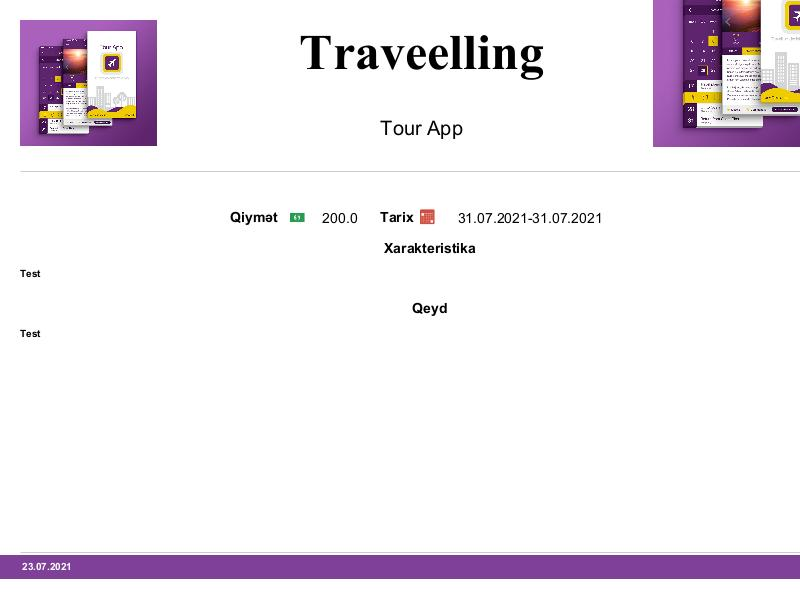
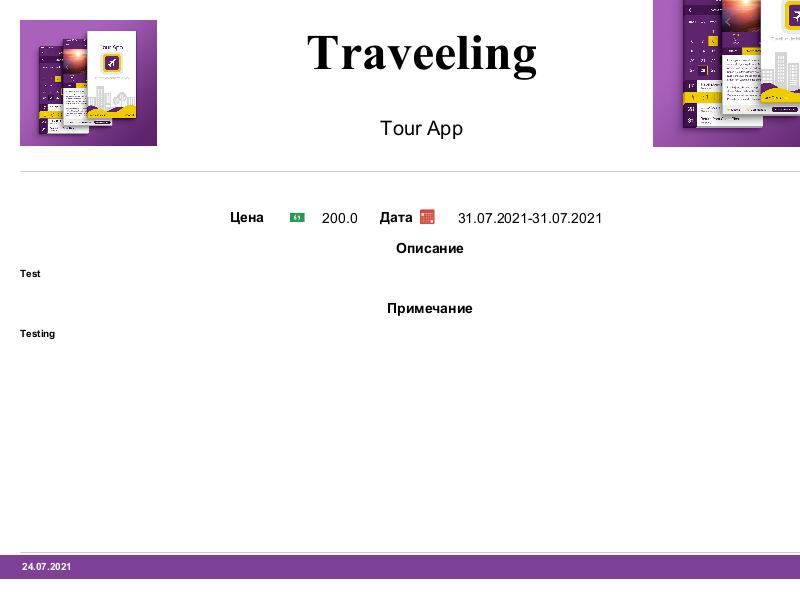
added textToImage method to utils package

diff --git a/TelegramAgent/src/main/java/com/mycode/telegramagent/dao/Impl/OfferImpl.java b/TelegramAgent/src/main/java/com/mycode/telegramagent/dao/Impl/OfferImpl.java
@@ -3,10 +3,8 @@ package com.mycode.telegramagent.dao.Impl;
 import com.mycode.telegramagent.dao.Interface.OfferDAO;
 import com.mycode.telegramagent.dto.JasperDto;
 import com.mycode.telegramagent.dto.OfferDto;
-import com.mycode.telegramagent.dto.RabbitOffer;
 import com.mycode.telegramagent.dto.ReplyToOffer;
 import com.mycode.telegramagent.enums.AgentRequestStatus;
-import com.mycode.telegramagent.enums.Languages;
 import com.mycode.telegramagent.models.Agent;
 import com.mycode.telegramagent.models.Offer;
 import com.mycode.telegramagent.models.UserRequest;
@@ -16,31 +14,17 @@ import com.mycode.telegramagent.repositories.OfferRepo;
 import com.mycode.telegramagent.repositories.OrderRepo;
 import com.mycode.telegramagent.services.Locale.LocaleMessageService;
 import lombok.SneakyThrows;
-import net.sf.jasperreports.engine.*;
-import net.sf.jasperreports.engine.data.JRBeanCollectionDataSource;
 import org.modelmapper.ModelMapper;
-import org.springframework.boot.autoconfigure.security.SecurityProperties;
+import org.springframework.beans.factory.annotation.Value;
 import org.springframework.stereotype.Component;
 import org.springframework.transaction.annotation.Propagation;
 import org.springframework.transaction.annotation.Transactional;
-import org.springframework.util.ResourceUtils;
-import org.springframework.web.multipart.MultipartFile;
-
-import javax.imageio.ImageIO;
-import java.awt.image.BufferedImage;
 import java.io.File;
-import java.io.FileOutputStream;
-import java.io.IOException;
-import java.io.OutputStream;
-import java.text.SimpleDateFormat;
-import java.time.LocalDateTime;
-import java.time.format.DateTimeFormatter;
-import java.util.Collections;
 import java.util.Date;
-import java.util.HashMap;
 import java.util.List;
 
 import static com.mycode.telegramagent.utils.OfferToJasper.offerToJasper;
+import static com.mycode.telegramagent.utils.TextToImage.textToImage;
 
 @Component
 public class OfferImpl implements OfferDAO {
@@ -61,6 +45,12 @@ public class OfferImpl implements OfferDAO {
         this.messageService = messageService;
     }
 
+    @Value("${jasper.path}")
+    String location;
+    @Value("${jasper.file}")
+    String resourceFile;
+
+
     @SneakyThrows
     @Transactional(propagation = Propagation.REQUIRED)
     @Override
@@ -69,20 +59,19 @@ public class OfferImpl implements OfferDAO {
         UserRequest order = userRequest.getOrderByUserId(uuid, email);
         order.setAgentRequestStatus(AgentRequestStatus.Offer_Made);
         JasperDto jasperDto = offerToJasper(agent.getAgencyName(), offerDto);
-        textToImage(jasperDto, order.getLanguage());
-        File photo = new File("src/main/resources/static/docs/offer.jpg");
-
-
-        Offer offer = modelMapper.map(offerDto, Offer.class);
-        modelMapper.getConfiguration().setAmbiguityIgnored(true);
-        offer.setAgent(agent);
-        offer.setUserRequest(order);
-        Offer savedOffer = offerRepo.save(offer);
-        RabbitOffer rabbitOffer = RabbitOffer.builder().userId(uuid).offerId(savedOffer.getId()).file(photo).build();
-        offerService.send(rabbitOffer);
-        order.setOffer(savedOffer);
-        userRequest.save(order);
-        return savedOffer;
+        textToImage(jasperDto, order.getLanguage(),messageService,location,resourceFile);
+        File photo = new File(location);
+//
+//        Offer offer = modelMapper.map(offerDto, Offer.class);
+//        modelMapper.getConfiguration().setAmbiguityIgnored(true);
+//        offer.setAgent(agent);
+//        offer.setUserRequest(order);
+//        Offer savedOffer = offerRepo.save(offer);
+//        RabbitOffer rabbitOffer = RabbitOffer.builder().userId(uuid).offerId(savedOffer.getId()).file(photo).build();
+//        offerService.send(rabbitOffer);
+//        order.setOffer(savedOffer);
+//        userRequest.save(order);
+        return null;
     }
 
     @Override
@@ -106,37 +95,7 @@ public class OfferImpl implements OfferDAO {
         return offerRepo.getOffersByAgent_Email(email);
     }
 
-    @SneakyThrows
-    public void textToImage(JasperDto jasperDto, Languages languages) {
-        File file = ResourceUtils.getFile("src/main/resources/static/docs/offer.jrxml");
-        JasperReport jasperReport = JasperCompileManager.compileReport(file.getAbsolutePath());
-        HashMap<String, Object> parameter = new HashMap<String, Object>();
-        parameter.put("money", messageService.getMessage("jasper.price", languages));
-        parameter.put("moneyIcon", "\uD83D\uDCB5");
-        parameter.put("date", messageService.getMessage("jasper.date", languages));
-        parameter.put("dateIcon", "\uD83D\uDCC5");
-        parameter.put("description", messageService.getMessage("jasper.description", languages));
-        if (jasperDto.getNote() != null) {
-            parameter.put("note", messageService.getMessage("jasper.note", languages));
-        }
-        JRBeanCollectionDataSource dataSource = new JRBeanCollectionDataSource(Collections.singleton(jasperDto));
-        JasperPrint jasperPrint = JasperFillManager.fillReport(jasperReport, parameter, dataSource);
 
-        final String extension = "jpg";
-        final String location = "src/main/resources/static/docs/";
-        final float zoom = 1f;
-        String fileName = "offer";
-        int pages = jasperPrint.getPages().size();
-        for (int i = 0; i < pages; i++) {
-            try (OutputStream out = new FileOutputStream(location + fileName + "." + extension)) {
-                BufferedImage image = (BufferedImage) JasperPrintManager.printPageToImage(jasperPrint, i, zoom);
-                ImageIO.write(image, extension, out);
-            } catch (IOException e) {
-                e.printStackTrace();
-            }
-        }
-
-    }
 
     @Override
     public Offer getOfferById(Long id) {

diff --git a/TelegramAgent/src/main/java/com/mycode/telegramagent/utils/TextToImage.java b/TelegramAgent/src/main/java/com/mycode/telegramagent/utils/TextToImage.java
@@ -1,0 +1,53 @@
+package com.mycode.telegramagent.utils;
+
+import com.mycode.telegramagent.dto.JasperDto;
+import com.mycode.telegramagent.enums.Languages;
+import com.mycode.telegramagent.services.Locale.LocaleMessageService;
+import lombok.SneakyThrows;
+import net.sf.jasperreports.engine.*;
+import net.sf.jasperreports.engine.data.JRBeanCollectionDataSource;
+import org.springframework.util.ResourceUtils;
+
+import javax.imageio.ImageIO;
+import java.awt.image.BufferedImage;
+import java.io.File;
+import java.io.FileOutputStream;
+import java.io.IOException;
+import java.io.OutputStream;
+import java.util.Collections;
+import java.util.HashMap;
+
+public class TextToImage {
+
+    @SneakyThrows
+    public static void textToImage(JasperDto jasperDto, Languages languages, LocaleMessageService messageService,
+                                   String location, String resourceFile) {
+        File file = ResourceUtils.getFile(resourceFile);
+        JasperReport jasperReport = JasperCompileManager.compileReport(file.getAbsolutePath());
+        HashMap<String, Object> parameter = new HashMap<String, Object>();
+        parameter.put("money", messageService.getMessage("jasper.price", languages));
+        parameter.put("moneyIcon", "\uD83D\uDCB5");
+        parameter.put("date", messageService.getMessage("jasper.date", languages));
+        parameter.put("dateIcon", "\uD83D\uDCC5");
+        parameter.put("description", messageService.getMessage("jasper.description", languages));
+        if (jasperDto.getNote() != null) {
+            parameter.put("note", messageService.getMessage("jasper.note", languages));
+        }
+        JRBeanCollectionDataSource dataSource = new JRBeanCollectionDataSource(Collections.singleton(jasperDto));
+        JasperPrint jasperPrint = JasperFillManager.fillReport(jasperReport, parameter, dataSource);
+
+
+        final float zoom = 1f;
+        final String extension="jpg";
+        int pages = jasperPrint.getPages().size();
+        for (int i = 0; i < pages; i++) {
+            try (OutputStream out = new FileOutputStream(location)) {
+                BufferedImage image = (BufferedImage) JasperPrintManager.printPageToImage(jasperPrint, i, zoom);
+                ImageIO.write(image, extension, out);
+            } catch (IOException e) {
+                e.printStackTrace();
+            }
+        }
+
+    }
+}

diff --git a/TelegramAgent/src/main/java/com/mycode/telegramagent/services/Impl/OfferServiceImpl.java b/TelegramAgent/src/main/java/com/mycode/telegramagent/services/Impl/OfferServiceImpl.java
@@ -32,7 +32,6 @@ public class OfferServiceImpl implements IOfferService {
     @Override
     public Offer saveOffer(String userId, String email, OfferDto offerDto) {
         UserRequest userRequest = offerDAO.getRequestByUUIDAndEmail(userId, email);
-
         if (userRequest == null) {
             throw new RequestNotFound();
         } else if (userRequest.getAgentRequestStatus().equals(AgentRequestStatus.Offer_Made) ||

diff --git a/TelegramAgent/src/main/java/com/mycode/telegramagent/rabbitmq/offerOrder/consumer/Consumer.java b/TelegramAgent/src/main/java/com/mycode/telegramagent/rabbitmq/offerOrder/consumer/Consumer.java
@@ -9,7 +9,7 @@ import org.springframework.stereotype.Service;
 import org.springframework.transaction.annotation.Propagation;
 import org.springframework.transaction.annotation.Transactional;
 
-@Service
+//@Service
 public class Consumer {
 
     private final IOrderService orderService;
